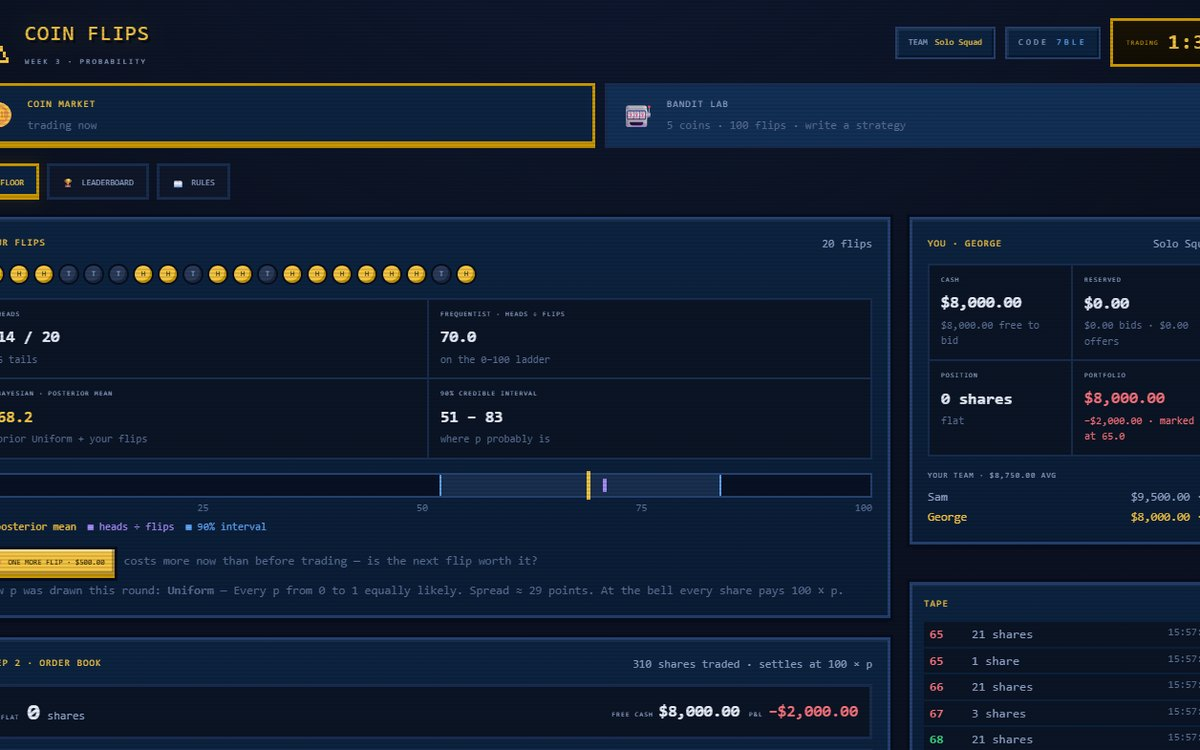
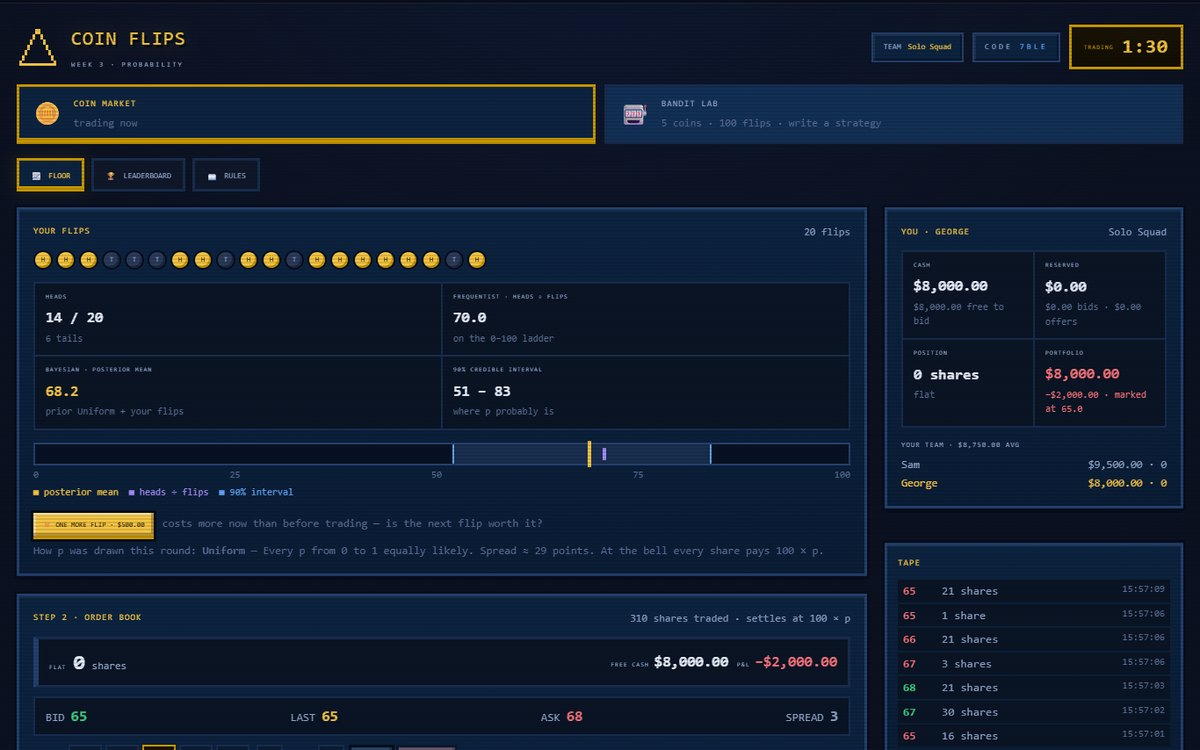
Deploy the 2026 site, the Games page and the solo games so far (week 2 solo still in progress)

Changed region(s): [[0.0, 0.0, 1.0, 1.0], [0.0925, 0.9813, 0.1542, 1.0]]

diff --git a/solo/week2/room.js b/solo/week2/room.js
@@ -515,6 +515,9 @@ export async function step(bot, meta) {
         return null;
       });
       if (res) stats.steps++;
+      // A refused step (it would land where it already stood, e.g. at the edge
+      // of the curve) still uses up the bot's appetite, so it does not loop.
+      else M.steps++;
       if (res?.me) {
         me = res.me;
         M.steps++;
